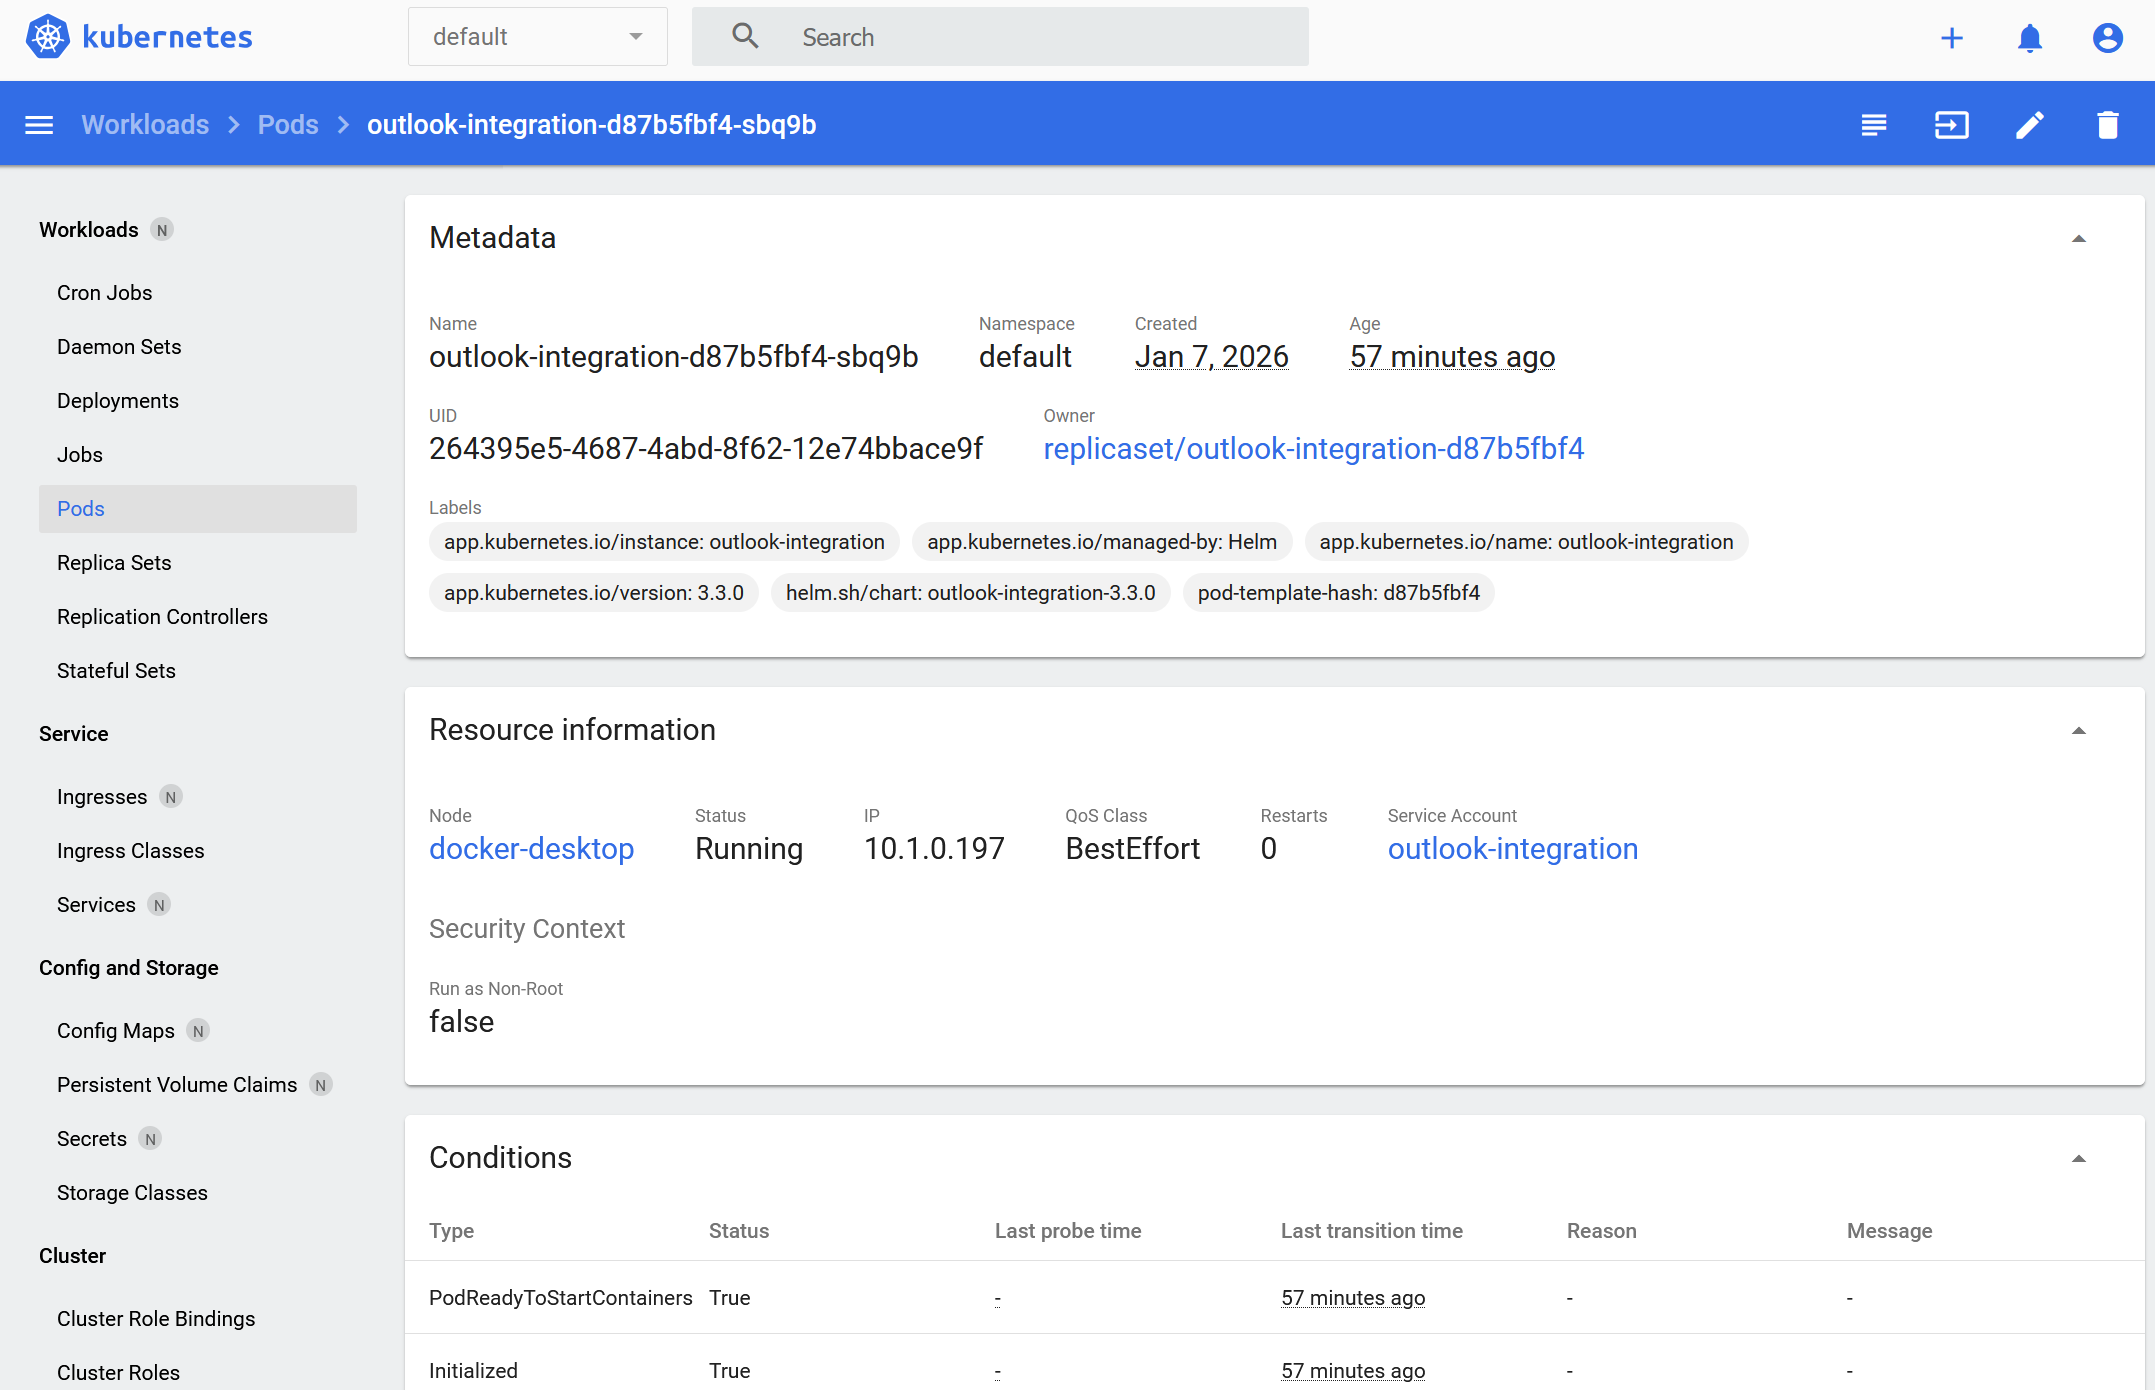
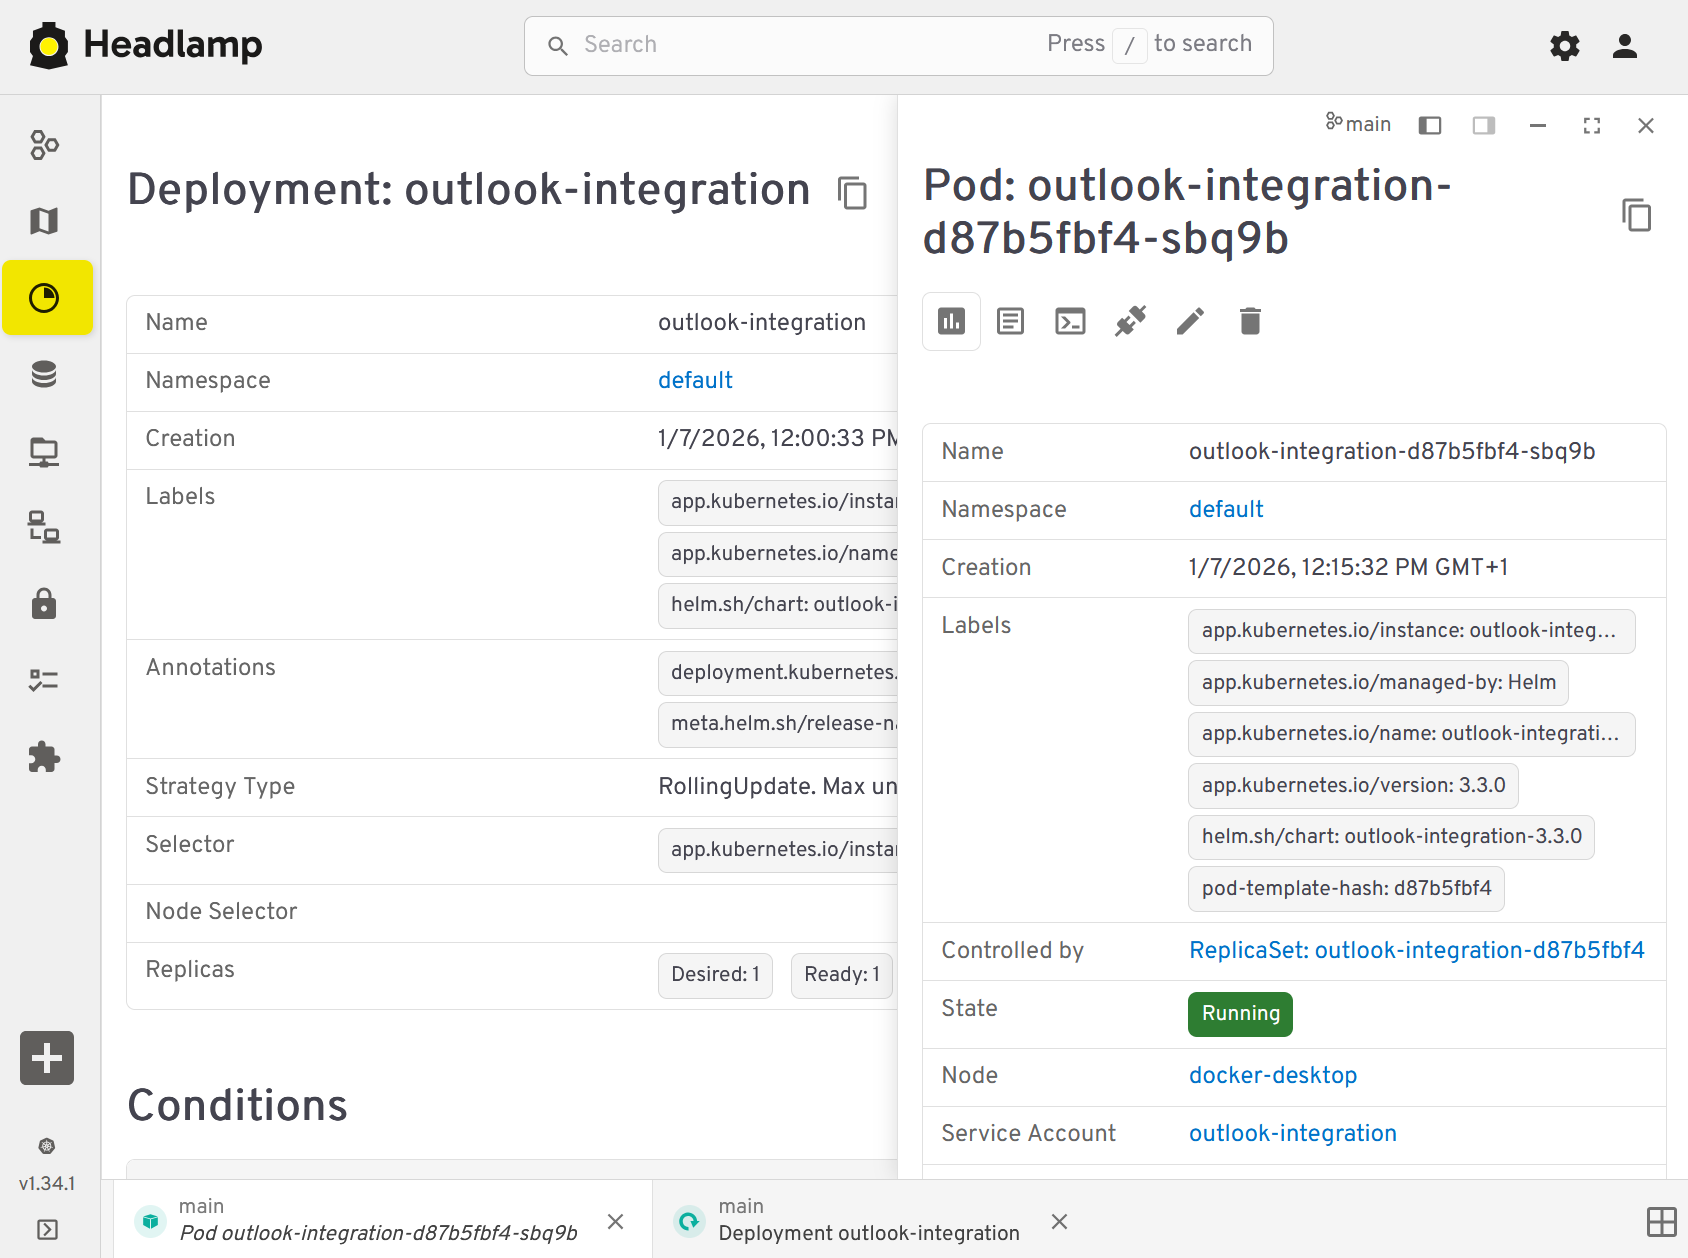
switch to headlamp for kubernetes dashboard

diff --git a/Documentation/OutlookIntegration Installation and Registration Manual.md b/Documentation/OutlookIntegration Installation and Registration Manual.md
@@ -156,7 +156,7 @@ For example in Docker Desktop \
 > The Kubernetes Deployment contains [readiness and liveness probes](https://kubernetes.io/docs/tasks/configure-pod-container/configure-liveness-readiness-startup-probes/) that include basic configuration checks.
 
 Use your favorite Docker tools to check the status and logs of the app.
-For example in Kubernetes Dashboard \
+For example in [Headlamp](https://headlamp.dev/). \
 ![Docker Kubernetes Running](<Images/Kubernetes Running.png>)
 
 ## Post Installation check
